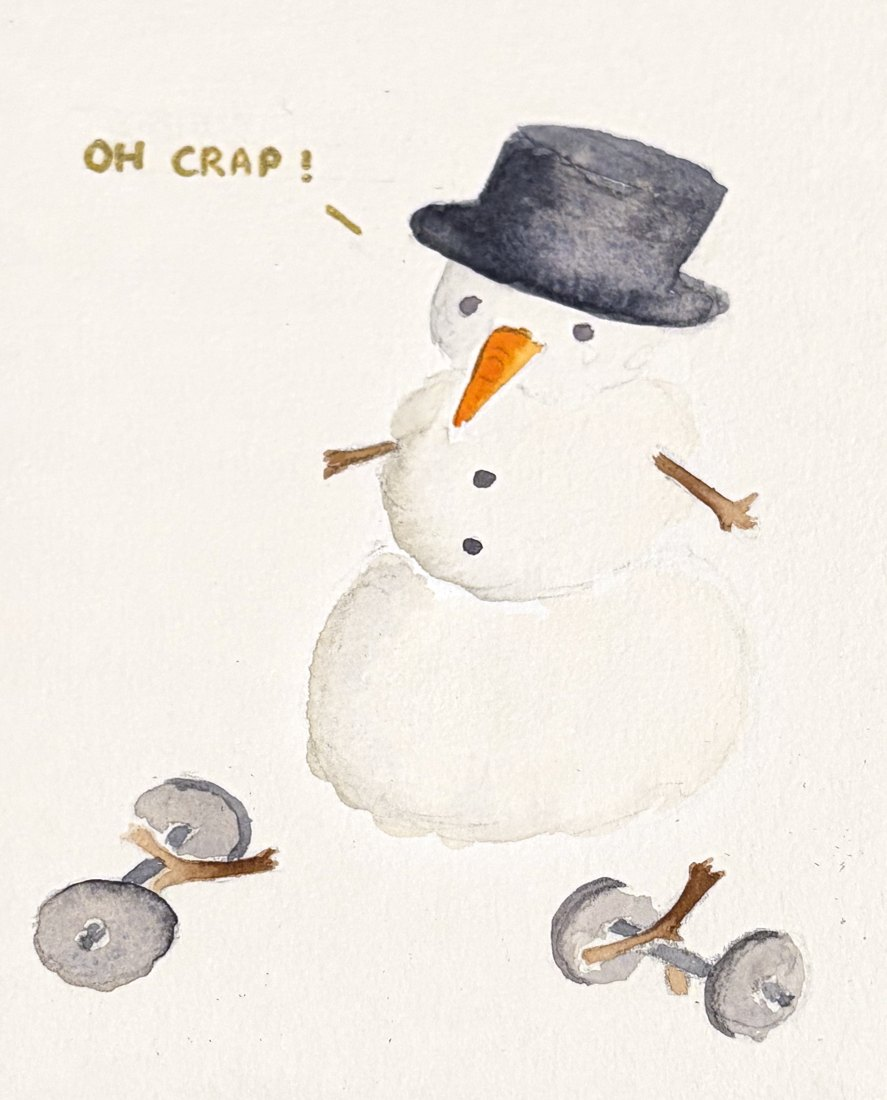
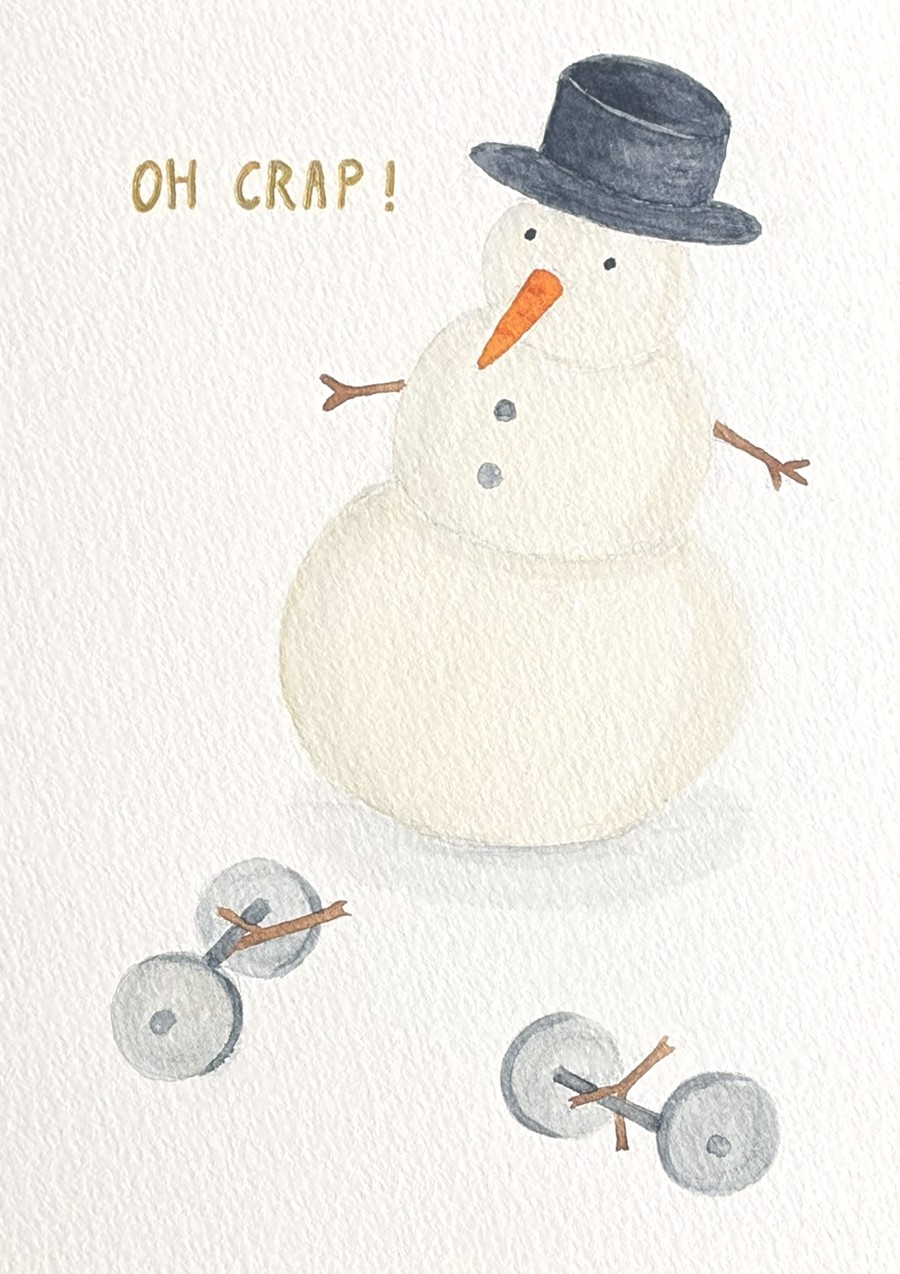
Use the repainted Oh crap card and refresh the share image
Claude-Session: https://claude.ai/code/session_01GUPr6ihkZTKKkS6ch84Wbc

diff --git a/index.html b/index.html
@@ -144,7 +144,7 @@
     </div>
 
     <figure class="hero-card">
-      <img src="images/card-oh-crap.jpg" width="887" height="1100" alt="Hand-painted card: a snowman whose dumbbells have fallen off, saying 'Oh crap!'">
+      <img src="images/card-oh-crap.jpg" width="900" height="1274" alt="Hand-painted card: a snowman whose dumbbells have fallen off, saying 'Oh crap!'">
       <figcaption>We all know a friend whose resolutions start right after the holidays.</figcaption>
     </figure>
   </section>
